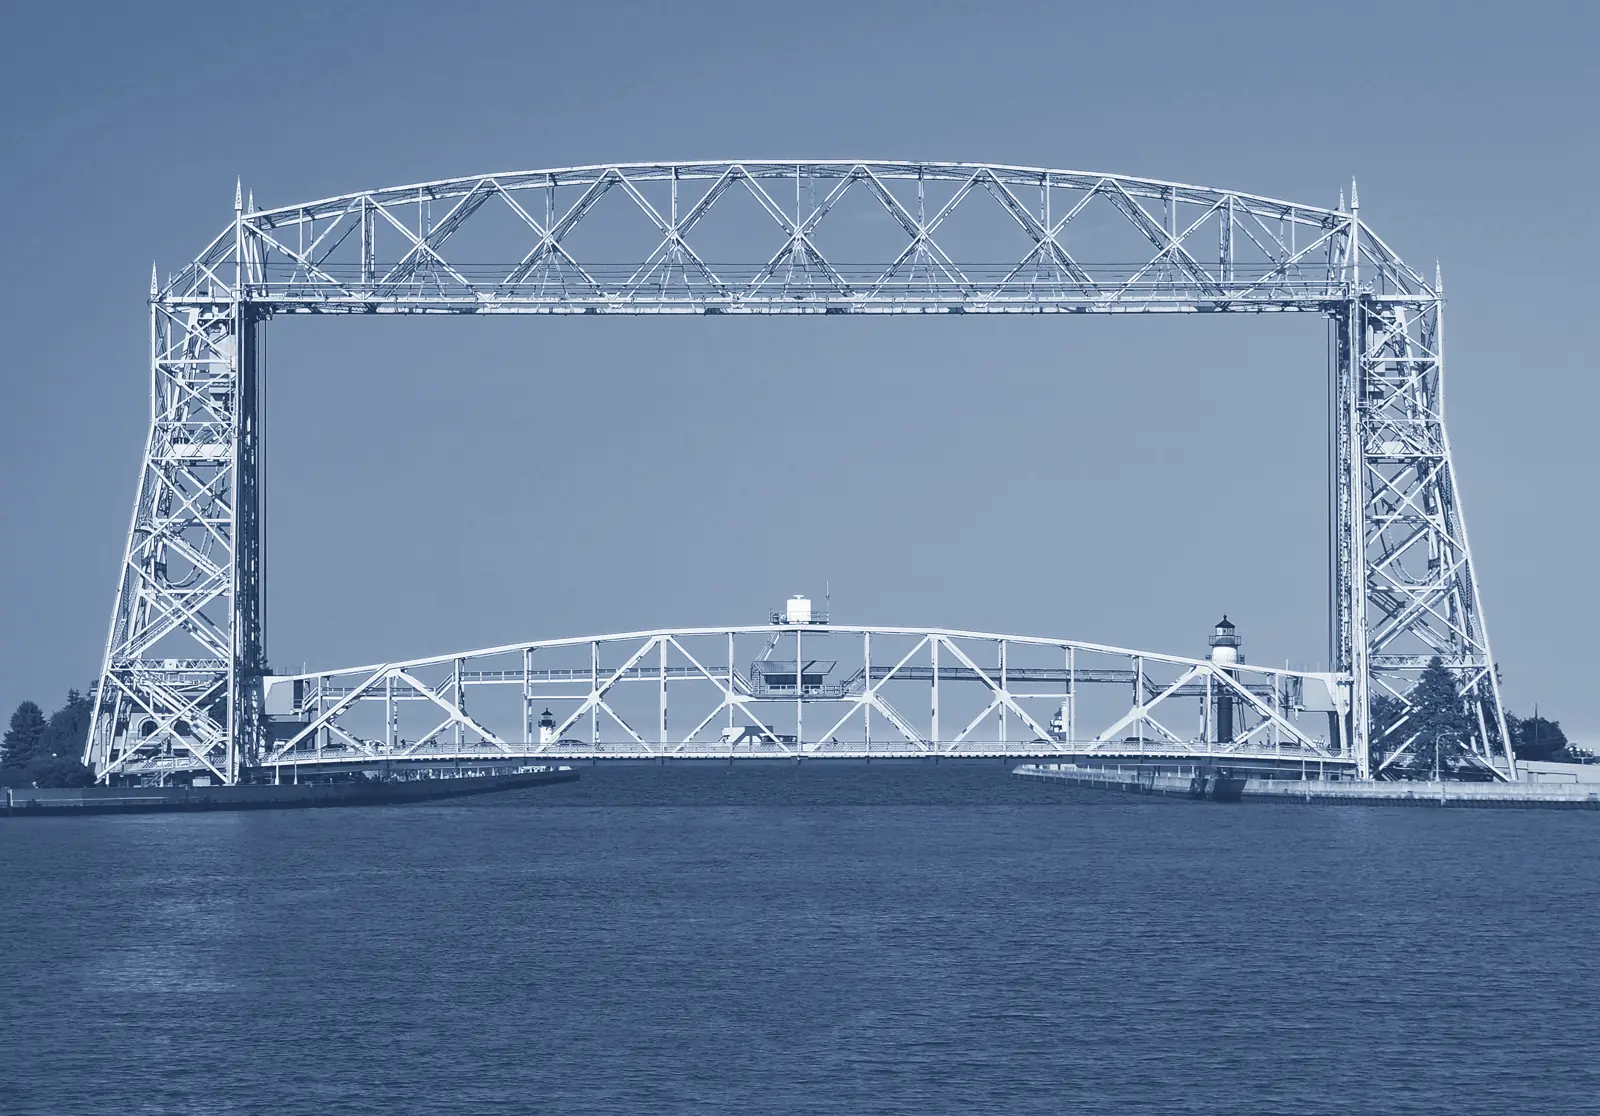
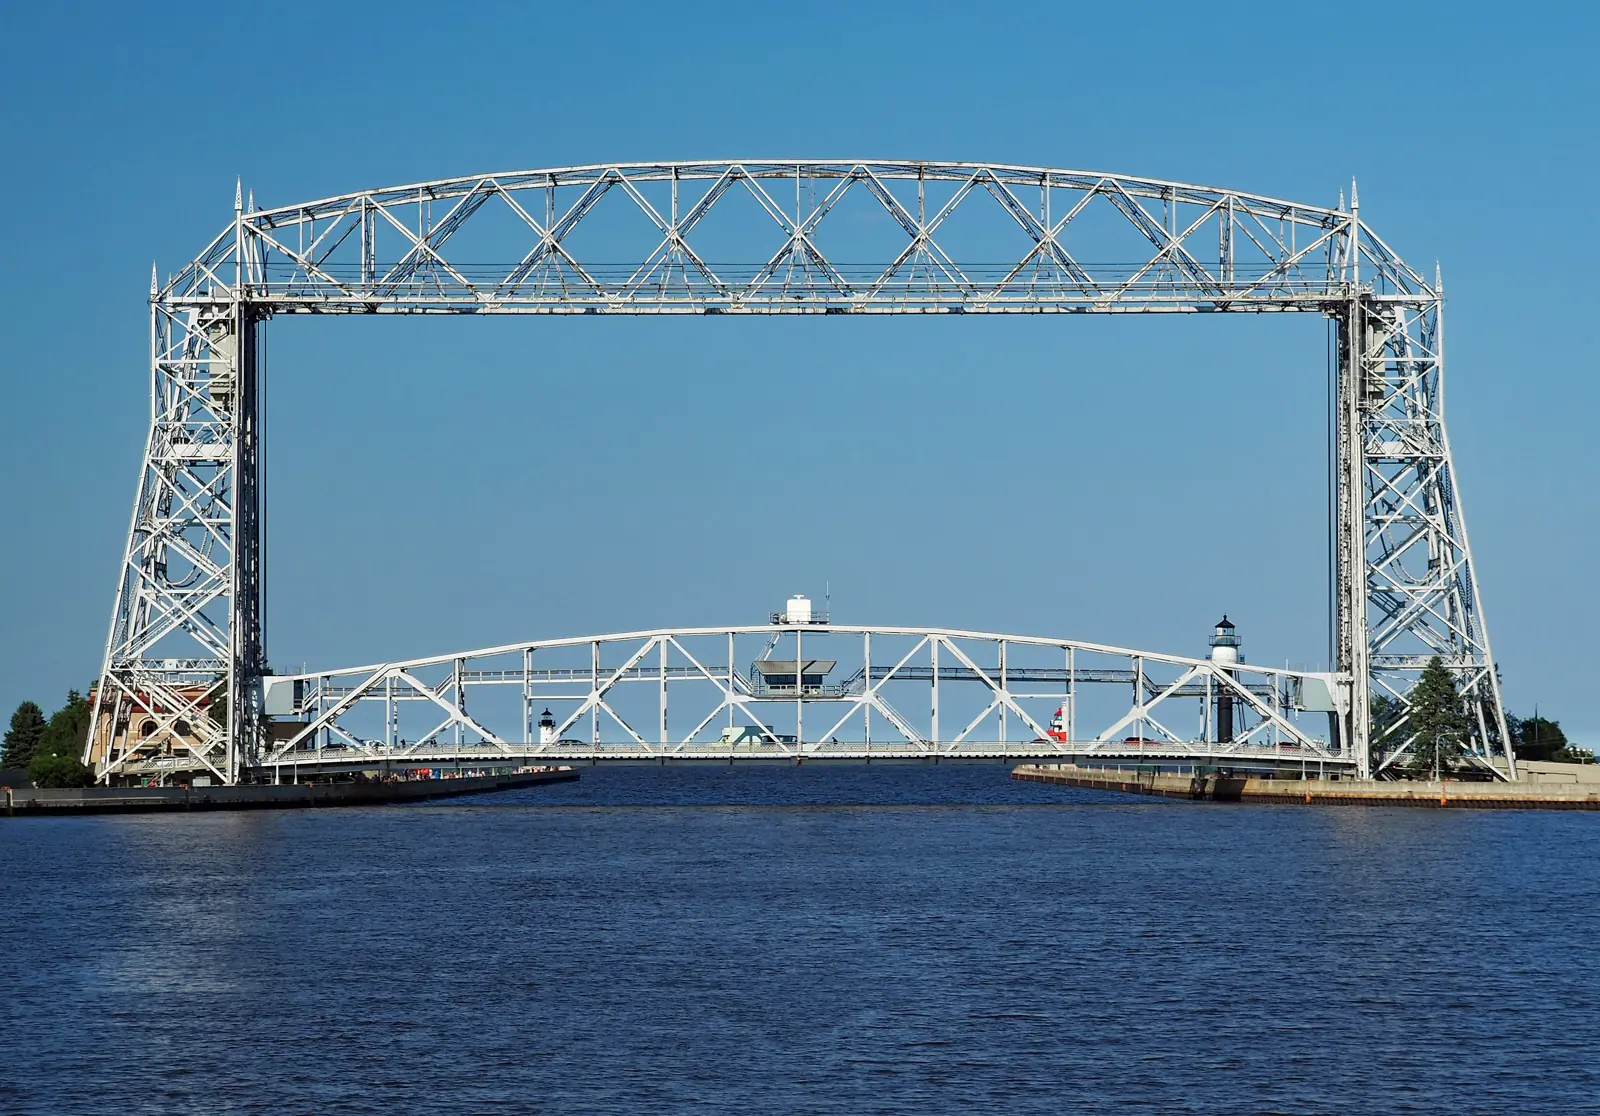
Restore full color on the landing bridge photo.
Keep the other photos on the tritone grade, and skip that grade for the Aerial Lift Bridge when images are rebuilt.

diff --git a/scripts/build-images.py b/scripts/build-images.py
@@ -23,9 +23,13 @@ def grade(im):
     g=ImageOps.autocontrast(im.convert('L'),cutoff=1)
     return Image.merge('RGB',[g.point(L[k]) for k in range(3)])
 os.makedirs('assets/img',exist_ok=True)
+# Landing bridge stays the original color. Every other photo is still graded.
+NATURAL={'duluth-lift-bridge'}
 for p in credits['photos']:
     src=f"assets-src/raw/{p['key']}.jpg"
-    im=grade(Image.open(src).convert('RGB'))
+    im=Image.open(src).convert('RGB')
+    if p['key'] not in NATURAL:
+        im=grade(im)
     for w in (800,1600):
         r=im.copy(); r.thumbnail((w,w*2)); r.save(f"assets/img/{p['key']}-{w}.webp",'WEBP',quality=74,method=6)
 # portrait: natural color, gentle crop, webp + jpg
